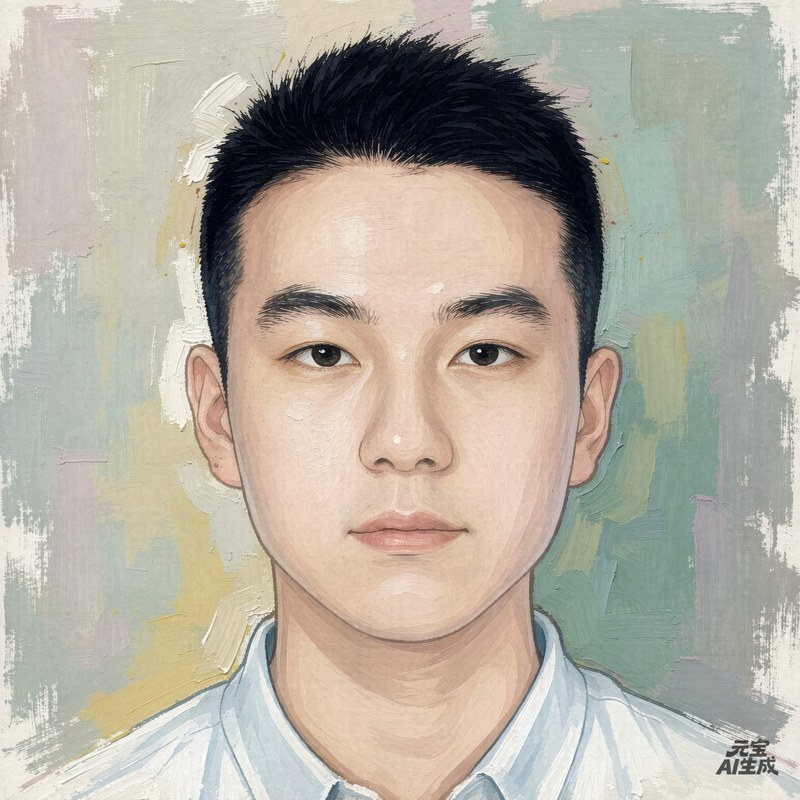
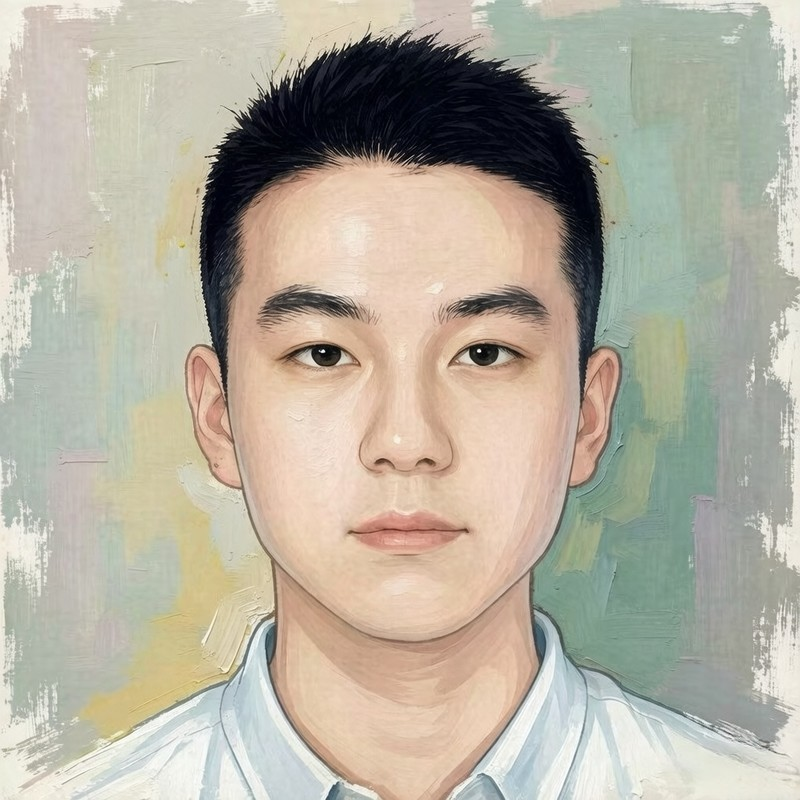
fix(style): 明亮模式下页脚/打赏区改为奶油色带, 更换个人头像

diff --git a/index.html b/index.html
@@ -334,29 +334,36 @@ section { padding: 92px 0; position: relative; z-index: 1; }
 [data-theme="dark"] .contact-links .btn { background: var(--surface); }
 [data-theme="dark"] .contact-links .btn:hover { background: var(--surface-hover); }
 
-/* Footer — 深空色带(暗主题下与页面同色) */
+/* Footer — 明:奶油区带;暗:与页面同色 */
 .footer {
-  background: var(--night); color: var(--night-fg);
+  background: var(--bg-soft); color: var(--fg);
+  border-top: 1px solid var(--line);
   padding: 64px 0 56px; margin-top: 40px; position: relative; z-index: 1;
 }
 [data-theme="dark"] .footer { background: transparent; border-top: 1px solid var(--line); margin-top: 32px; }
 .footer-inner { display: flex; justify-content: space-between; align-items: flex-end; gap: 32px; flex-wrap: wrap; }
 .footer-brand { font-family: var(--font-display); font-size: 24px; font-weight: 500; letter-spacing: 0; }
-.footer-text { font-size: 13.5px; color: var(--night-muted); margin-top: 10px; line-height: 1.7; max-width: 44ch; }
+.footer-text { font-size: 13.5px; color: var(--muted); margin-top: 10px; line-height: 1.7; max-width: 44ch; }
+[data-theme="dark"] .footer-text { color: var(--night-muted); }
 .footer-coords {
-  font-family: var(--font-mono); font-size: 12px; color: var(--night-muted);
+  font-family: var(--font-mono); font-size: 12px; color: var(--muted);
   letter-spacing: 0.06em; text-align: right; line-height: 1.9;
 }
-.footer-coords .rose { color: var(--rose); }
+[data-theme="dark"] .footer-coords { color: var(--night-muted); }
+.footer-coords .rose { color: var(--accent-strong); }
+[data-theme="dark"] .footer-coords .rose { color: var(--rose); }
 .footer-sponsor { margin-top: 22px; }
 .sponsor-link {
   display: inline-flex; align-items: center; gap: 8px;
-  border: 1px solid rgba(218, 223, 229, 0.25); border-radius: 999px;
-  padding: 8px 18px; font-size: 13px; color: var(--night-fg);
+  border: 1px solid var(--line); border-radius: 999px;
+  padding: 8px 18px; font-size: 13px; color: var(--fg);
   transition: border-color 0.25s, color 0.25s, background 0.25s;
 }
-.sponsor-link:hover { border-color: var(--rose); color: var(--rose); background: rgba(196, 167, 159, 0.08); }
-.sponsor-link svg { width: 13px; height: 13px; fill: var(--rose); stroke: none; }
+.sponsor-link:hover { border-color: var(--accent-strong); color: var(--accent-strong); background: var(--bg); }
+.sponsor-link svg { width: 13px; height: 13px; fill: var(--accent-strong); stroke: none; }
+[data-theme="dark"] .sponsor-link { border-color: rgba(218, 223, 229, 0.25); color: var(--night-fg); }
+[data-theme="dark"] .sponsor-link:hover { border-color: var(--rose); color: var(--rose); background: rgba(196, 167, 159, 0.08); }
+[data-theme="dark"] .sponsor-link svg { fill: var(--rose); }
 
 /* ---------- Responsive ---------- */
 @media (max-width: 860px) {

diff --git a/css/tonglin.css b/css/tonglin.css
@@ -500,10 +500,11 @@ img { max-width: 100%; }
 .search-results .search-result p { color: var(--muted); font-size: 13px; margin: 4px 0 0; }
 .search-results .search-empty { color: var(--muted); }
 
-/* ---------- Footer ---------- */
+/* ---------- Footer(明:奶油区带;暗:与页面同色) ---------- */
 footer {
-  background: var(--night);
-  color: var(--night-fg);
+  background: var(--bg-soft);
+  color: var(--fg);
+  border-top: 1px solid var(--line);
   padding-top: 48px;
   padding-bottom: 40px;
 }
@@ -514,18 +515,23 @@ footer {
 footer .list-inline { margin-top: 0; }
 footer .list-inline .fa-stack { font-size: 1.25em; }
 footer .list-inline .fa-circle { color: var(--rose); }
-footer .list-inline .fa-inverse { color: var(--night); }
+footer .list-inline .fa-inverse { color: var(--bg-soft); }
+[data-theme="dark"] footer .list-inline .fa-inverse { color: var(--night); }
 footer .copyright {
-  color: var(--night-muted);
+  color: var(--muted);
   font-size: 13px;
   letter-spacing: 0.02em;
   margin-top: 22px;
 }
-footer .copyright a { color: var(--rose); border-bottom: 1px solid rgba(196, 167, 159, 0.35); }
-footer .copyright a:hover { color: var(--rose); border-color: var(--rose); }
-footer .sponsor a { color: var(--rose); font-weight: 600; }
-footer .sponsor a:hover { color: #e2ccc4; }
 [data-theme="dark"] footer .copyright { color: var(--night-muted); }
+footer .copyright a { color: var(--accent-strong); border-bottom: 1px solid rgba(120, 91, 78, 0.35); }
+footer .copyright a:hover { color: var(--accent-strong); border-color: var(--accent-strong); }
+[data-theme="dark"] footer .copyright a { color: var(--rose); border-bottom-color: rgba(196, 167, 159, 0.35); }
+[data-theme="dark"] footer .copyright a:hover { color: var(--rose); border-color: var(--rose); }
+footer .sponsor a { color: var(--accent-strong); font-weight: 600; }
+footer .sponsor a:hover { color: var(--accent-strong-hover); }
+[data-theme="dark"] footer .sponsor a { color: var(--rose); }
+[data-theme="dark"] footer .sponsor a:hover { color: #e2ccc4; }
 
 /* ---------- 中英双语（pg-lang / data-lang） ---------- */
 /* 双语块显隐：由 <html data-lang> 驱动，无 JS 时默认英文 */
